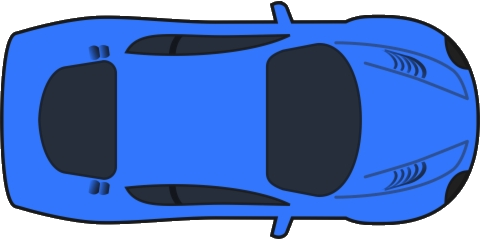
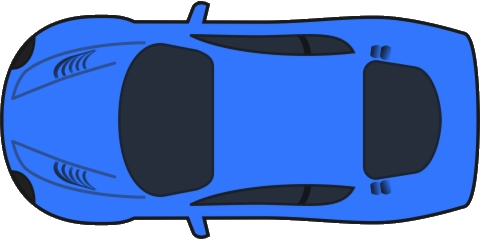
Updated bioContent
Implemented the instructions to follow the car around

Added feature of car to do different things when 'Enter' is pressed on a non-link container

diff --git a/index.html b/index.html
@@ -14,22 +14,21 @@
         <canvas id="background" width="0" height="0"></canvas>
 
         <div id="car">
-            <img id="carImg" src="./resources/carImages/car.png" alt="car" max-width="24" max-height="48">
+            <img id="carImg" src="./resources/carImages/car0.png" alt="car" max-width="24" max-height="48">
+            <div id="instructions" class="instructionsBlack">
+                <div class="translateCenter">
+                    <img id='arrowKeys' src='../resources/arrowKeys.png' alt='Arrow Keys'>
+                    <div class='instructionsText' id='driveText'> - Drive</div>
+                    </br>
+                    <img id='enter' src='../resources/enter.png' alt='Enter'>
+                    <div class='instructionsText'> - Perform Action</div>
+                </div>
+                <span id="closeInstructions">X</span>
+            </div>
         </div>
 
         <div id="arrowDownContainer">
             <img src="./resources/arrowDown2.png" alt="There's more down">
-        </div>
-
-        <div id="instructions" class="instructionsBlack">
-            <div class="translateCenter">
-                <img id='arrowKeys' src='../resources/arrowKeys.png' alt='Arrow Keys'>
-                <div id='driveText'> - Drive</div>
-                </br>
-                <img id='enter' src='../resources/enter.png' alt='Enter'>
-                <div> - Perform Action</div>
-            </div>
-            <span id="closeInstructions">X</span>
         </div>
 
         <h1>Paul Meddaugh</br><div>Web Developer</div></h1>
@@ -40,13 +39,13 @@
                     <div class="projectText" id="projHFText">
                         thoughtweb
                         <span class="projectDescrip">
-                            An online journal that organizes entries by idea.
+                            An online journal that organizes entries primarily by idea.
                         </span>
                     </div>
                     <a class="translateCenter" href="https://correlation-journal-production.up.railway.app/">Write</a>
                 </figure>
                 <div class="quickAccessAccount">
-                    Username: "<b>admin</b>", Password: "<b>password</b>" <i>(easy access)</i>
+                    Username: "<b>admin</b>", Password: "<b>password</b>" <i>(for demo)</i>
                 </div>
             </div>
             <div class="project flexCenter" id="projGV">
@@ -84,21 +83,21 @@
                 <div class="bioContent">
                     <div>
                         <p>
-                            It is a wonder and a privilege to compose to life the art made through coding, 
-                            constructing that which just was not thought do-able from wild imagination.  
+                            It is a privilege and wonder to compose to life the art made through coding, 
+                            constructing what was not thought do-able in wild imagination.  
                         </p>
 
                         <p>
                             I am an Oral Roberts University graduate with a minor in Information 
-                            Technology, IT experience of one semester, including programming 
-                            5+ documentation pages, and certification as a Java SE 8 Oracle Certified Associate.
+                            Technology, IT work experience of one semester, including programming
+                            5+ documentation pages, and a certification as a Java SE 8 Oracle Certified Associate.
                         </p>
 
                         <p>
-                            Web and software development, to me, is a gift given to grow in loving and 
-                            serving others well, which asks for it being done in excellence, and I 
-                            sincerely seek to bring that to the projects I contribute to. Thanks so much for 
-                            checking out the website!
+                            Web and software development, to me, is a gift given for serving and 
+                            loving others well, which compells it be done with excellence, and I 
+                            sincerely seek to grow in and bring such to the projects I contribute to. Thanks 
+                            so much for checking out the website!
                         </p>
                     </div>
                 </div>

diff --git a/scripts/car.js b/scripts/car.js
@@ -5,8 +5,10 @@ import { Predict } from './predict.js';
 import { carWithinFigure, showHideLinks, carWithinHeaderLink, highlightHeaderLinks, highlightTitle } from './showHideElements.js';
 import { highlightInstructions } from './instructions.js';
 
-let car;
+let car, carImg;
 let initialScroll = false;
+
+let randomCarObjectCount = 0; // 7 total
 
 export let carProps = (() => {
     let velocity = 0;
@@ -73,6 +75,7 @@ window.addEventListener("load", () => {
     setCarAcceleration();
 
     car = document.getElementById('car');
+    carImg = document.getElementById('carImg');
     placeCarInCenter(false);
 
     // Calculates the frames per second
@@ -115,7 +118,7 @@ window.addEventListener("load", () => {
  */
  export function placeCarInCenter(withScrolling = true) {
     let point = new Point(
-        document.body.clientWidth / 2 - car.clientWidth / 2,
+        document.body.offsetWidth / 2,
         (window.innerHeight) / 2 + ((withScrolling) ? window.scrollY : 0) - car.clientHeight / 2
     );
 
@@ -167,7 +170,7 @@ function setCarAcceleration() {
     }
     car.style.left = newPoint.x + "px";
     car.style.top = newPoint.y + "px";
-    car.style.transform = "rotate(" + (angle - Math.PI / 2) * (180 / Math.PI)  + "deg)";
+    carImg.style.transform = "rotate(" + (angle - Math.PI / 2) * (180 / Math.PI)  + "deg)";
 
     let boundary;
     if (boundary = outOfBounds()) {
@@ -239,18 +242,19 @@ export /**
     let x2 = document.body.clientWidth, y2 = document.body.clientHeight;
     let boundary;
     let borderSize = 40;
+    const NORTH_OFFSET = 25, EAST_OFFSET = 27, SOUTH_OFFSET = 28, WEST_OFFSET = 25;
     
     // north
-    if (carWithin(boundary = new Rectangle(new Point(0, -borderSize), new Point(x2, 0)))) return boundary;
+    if (carWithin(boundary = new Rectangle(new Point(0, -borderSize), new Point(x2, NORTH_OFFSET)))) return boundary;
 
     // east
-    if (carWithin(boundary = new Rectangle(new Point(x2 - 30, 0), new Point(x2 + borderSize, y2)))) return boundary;
+    if (carWithin(boundary = new Rectangle(new Point(x2 - EAST_OFFSET, 0), new Point(x2 + borderSize, y2)))) return boundary;
 
     // south
-    if (carWithin(boundary = new Rectangle(new Point(0, y2 - 50), new Point(x2, y2 + borderSize)))) return boundary;
+    if (carWithin(boundary = new Rectangle(new Point(0, y2 - SOUTH_OFFSET), new Point(x2, y2 + borderSize)))) return boundary;
 
     // west
-    if (carWithin(boundary = new Rectangle(new Point(-borderSize, 0), new Point(12, y2)))) return boundary;
+    if (carWithin(boundary = new Rectangle(new Point(-borderSize, 0), new Point(WEST_OFFSET, y2)))) return boundary;
 
     return false;
 }
@@ -268,6 +272,33 @@ export function driveCar (e) {
             window.location.href = fig.getElementsByTagName('A')[0].href;
         } else if (link = carWithinHeaderLink()) {
             window.location.href = link.children[0].href;
+        } else {
+
+            ({ // If 'Enter' pressed on no linkable object, performs a random action
+                0: () => dropObject('gear'), 
+                1: () => dropObject('wheel'),
+                2: () => changeCarImage(randomCarObjectCount - 2), 
+                3: () => changeCarImage(randomCarObjectCount - 2),
+                4: () => changeCarImage(randomCarObjectCount - 2), 
+                5: () => changeCarImage(randomCarObjectCount - 2),
+                6: () => changeCarImage(randomCarObjectCount = 0),
+            })[randomCarObjectCount++]();
+
+            function changeCarImage (imgNumber) {
+                carImg.src = `./resources/carImages/car${imgNumber}.png`;
+            }
+
+            function dropObject (fileName) {
+                const img = document.createElement('img');
+                img.src = './resources/carImages/' + fileName + '.png';
+                img.classList.add('carParts');
+                const carPoint = carProps.getPoint(), carSize = car.getBoundingClientRect();
+                img.style.left = (carPoint.x - (carSize.width / 3)) + 'px';
+                img.style.top = (carPoint.y - (carSize.height / 3)) + 'px';
+                img.addEventListener("click", () => img.remove());
+
+                document.body.appendChild(img);
+            }
         }
     }
 

diff --git a/styles/index.css b/styles/index.css
@@ -27,6 +27,13 @@ h2.aboutMeHeader {
     padding-bottom: 18px;
 }
 
+.overflowHiddenBody {
+    width: 100%;
+    height: 100%;
+    overflow: hidden;
+    position: absolute;
+}
+
 #car {
     z-index: 5;
     width: 24px;
@@ -36,15 +43,35 @@ h2.aboutMeHeader {
     left: 50%;
     -ms-transform: translate(-50%, -50%);
     transform: translate(-50%, -50%);
+    display: flex;
+}
+
+#car:focus-visible {
+    outline: none;
 }
 
 #carImg {
     max-width: max-content;
+    transition: none;
+}
+
+.carParts {
+    position: absolute;
+    max-width: 24px;
+    max-height: 24px;
+    border: 1px solid transparent;
+    transition: .5s ease;
+    padding: 3px;
+}
+
+.carParts:hover {
+    border: 1px solid rgb(255, 229, 83);
+    background-color: #fffade;
 }
 
 #instructions {
     position: fixed;
-    top: 86%;
+    top: 60%;
     right: 50%;
     -ms-transform: translate(50%, -50%);
     transform: translate(50%, -50%);
@@ -62,13 +89,15 @@ h2.aboutMeHeader {
     width: 100%;
 }
 
-#instructions div div { /* Instruction message text */
+#instructions .instructionsText {
     font: 12pt Corbel Light;
     display: inline-block;
     position: relative;
     top: -4px;
     margin: 2px 12px;
 }
+
+
 
 #instructions div #driveText {
     top: -5px;
@@ -125,10 +154,6 @@ h2.aboutMeHeader {
 img {
     max-width: 100%;
     max-height: 100%;
-}
-
-#car:focus-visible {
-    outline: none;
 }
 
 #content {
@@ -229,6 +254,8 @@ canvas {
     background-color: rgb(0, 0, 0, .25);
     font-family: 'Abuget';
     font-size: 36pt;
+    line-height: 18pt;
+    padding-top: 18px;
 }
 
 #projHFText .projectDescrip {
@@ -405,12 +432,6 @@ figure:hover a {
     opacity: 1;
 }
 
-@media (max-width: 510px) {
-    #hiddenFields {
-        background-position-y: 0;
-    }
-} 
-
 @media (max-width: 888px) {
     .content {
         flex-direction: column;
@@ -428,9 +449,37 @@ figure:hover a {
     }
 }
 
+@media (max-width: 510px) {
+    #hiddenFields {
+        background-position-y: center, 0;
+    }
+
+    #projectGrid {
+        height: 120vh;
+        grid-template-rows: 6% 24% 8% 24% 8% 24% 6%;
+    }
+
+    #projGV {
+        grid-column-start: 2;
+        grid-column-end: 5;
+        grid-row: 4;
+    }
+    
+    #projSF {
+        grid-column-start: 2;
+        grid-column-end: 5;
+        grid-row: 6;
+    }
+
+    #snowFinder img, #graphVisualizer img {
+        display: block;
+        max-width: 120px;
+    }
+} 
+
 @media (max-width: 652px) {
     .projectText {
-        font-size: calc(1.8vw * 1.9);
+        font-size: 20px;
     }
 } 
 

diff --git a/scripts/instructions.js b/scripts/instructions.js
@@ -5,13 +5,16 @@ import { MOBILE } from './index.js';
 let instructions, closeInstructions;
 let instructionsHighlighted = false;
 
+const INSTRUCTIONS_FADE_OUT_SECS = 10;
+const INSTRUCTIONS_LOWER_SEC = 0;
+
 window.addEventListener("load", () => {
 
     instructions = document.getElementById('instructions');
     closeInstructions = document.getElementById('closeInstructions');
 
     // Shows and hides instructions
-    setInstructionTimeouts();
+    if (!MOBILE) setInstructionTimeouts();
 });
 
 export function highlightInstructions () {
@@ -41,14 +44,18 @@ function setInstructionTimeouts() {
 
     // Transition eases instructions to display on load
     instructions.style.opacity = 1;
+    setTimeout(() => {
+        instructions.style.top = '300%';
+    }, INSTRUCTIONS_LOWER_SEC * 1000);
 
     // Closes instructions
     setTimeout(() => {
         instructions.style.opacity = 0;
         setTimeout(() => { // Lets transition happen
             instructions.style.zIndex = 0;
+            instructions.style.display = 'none';
         }, 1000);
-    }, 8000);
+    }, INSTRUCTIONS_FADE_OUT_SECS * 1000);
 }
 
 /**
